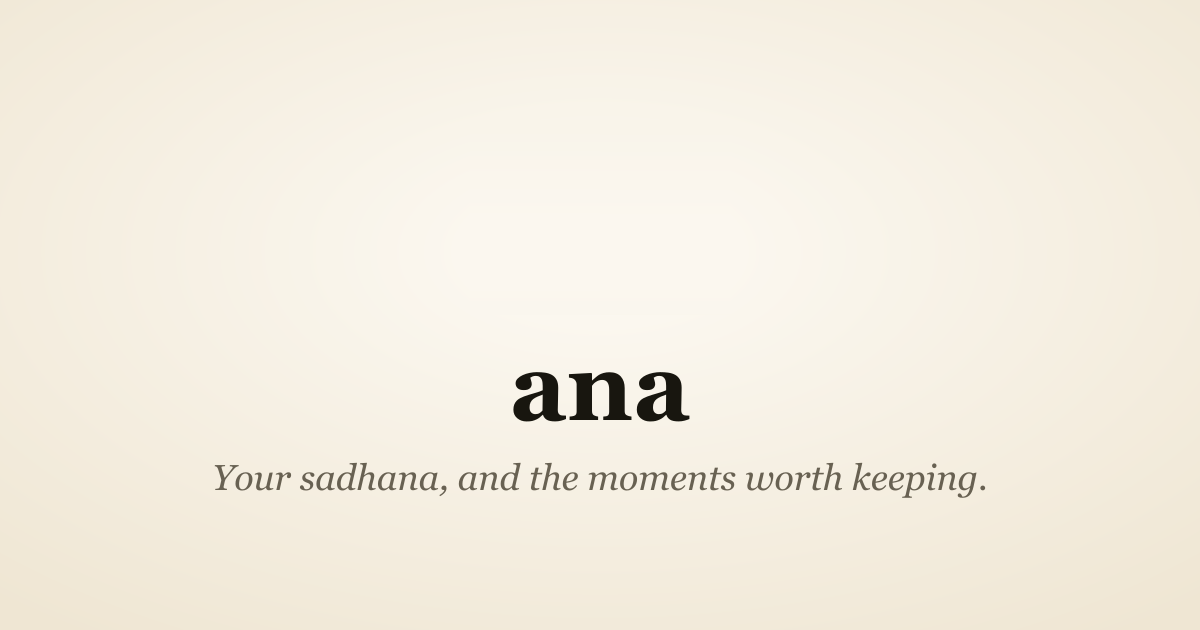
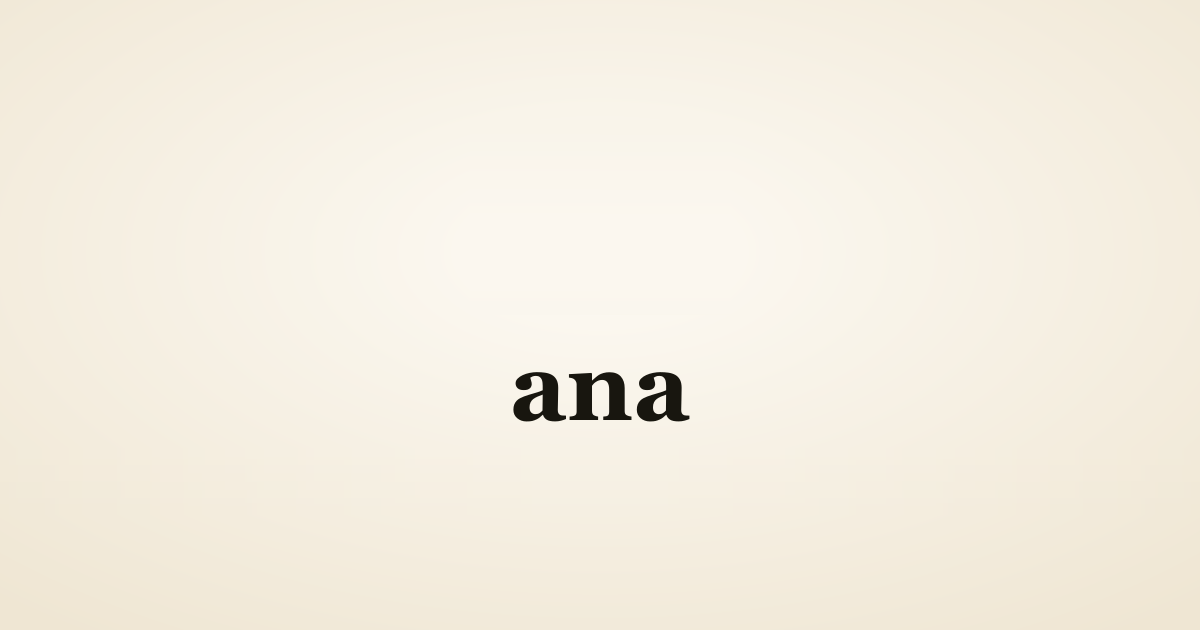
Link preview: the mark and name sit inside the middle square (what WhatsApp shows), no line under them

Changed region(s): [[0.185, 0.7238, 0.8325, 0.7841]]

diff --git a/scripts/make-icons.py b/scripts/make-icons.py
@@ -73,7 +73,8 @@ for n, im in (("light", L), ("dark", D)):
     im.resize((1024, 1024), Image.LANCZOS).save(f"{pub}/brand/mark-{n}.png", optimize=True)
 solid(F, TEAL).resize((1024, 1024), Image.LANCZOS).save(f"{pub}/brand/mark-flat.png", optimize=True)
 
-# Link preview, 1200 x 630: the mark on the base card (name and line already on it).
+# Link preview, 1200 x 630: the mark above the name, both inside the middle square, because
+# WhatsApp and others show a square cut from the middle (the line under it is in the text).
 def ground(w, h, bg, glow, strength):
     g = Image.new("RGB", (w, h), bg)
     halo = Image.new("L", (w, h), 0)
@@ -84,7 +85,7 @@ def ground(w, h, bg, glow, strength):
 
 og = Image.open(f"{src}/og-base.png").convert("RGB")
 og = og.convert("RGBA")
-og.alpha_composite(L.resize((190, 190), Image.LANCZOS), ((1200 - 190) // 2, 125))
+og.alpha_composite(L.resize((230, 230), Image.LANCZOS), ((1200 - 230) // 2, 108))
 save(og.convert("RGB"), f"{pub}/og.png")
 
 # iPhone / iPad launch screens (home-screen app), light and dark: the splash's own ground
